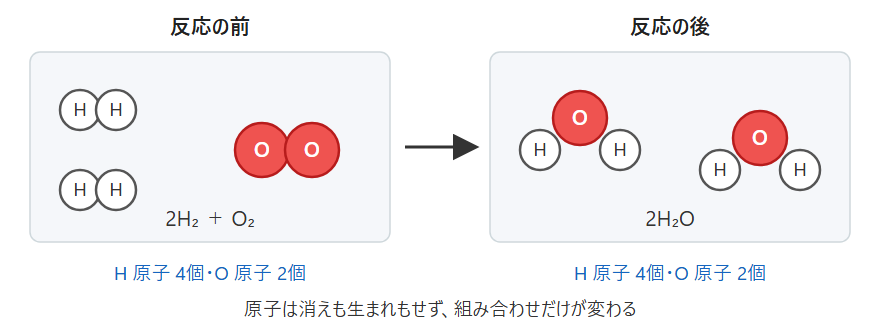
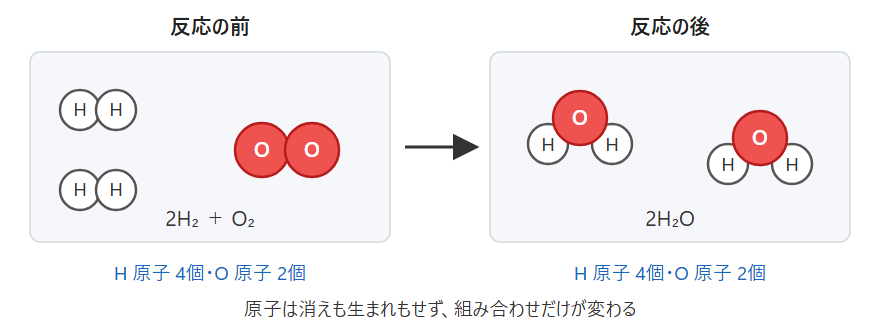
feat(参考書): 入り口の校正を反映した ― ユーザーの直し3か所と指示5つ（v1639）
ユーザーが .md を直した（2026-09-24・校正用フォルダ proof）。本文の直し（暗記より体系的な理解・C/H/O の元素記号・錬金術の一文）はそのまま。
指示（// のメモ）を反映:
- C₂H₆O の2つの図を結合を省略しない形に（H も1つずつ線で・paper expand=H）
- 原子の組みかえの図で、水分子の O と H の輪郭を重ねた（H を O に寄せ、O を上に描く）
- 状態変化・化学変化の表のあとに、物質の三態と熱運動・化学の基本法則へのリンク
- ボーアの原子モデルの図を新設（ナトリウム原子 K2・L8・M1。いちばん外側の電子を色分け）
- 「この参考書の読み方」をアルカンの例をやめて5つの特長の箇条書きに（体系的・具体例・一問一答・アプリ・独自解法と計算の工夫）。
  最後のリンクを「次のページへ：物質の分類と分離」に
相談の3つ（周期表をここに置くか・「参考書」という言い方・ページの題）は // のメモのまま残した（ユーザー判断待ち）

検証: 焼いた PNG を目で確認（新しい図の字 16px・床 14px 以上）。check-copy で文献との一致 0。
gen-reference 合格。run-tests 4分割で 947/947 合格

Changed region(s): [[0.7977, 0.4242, 0.9511, 0.5758], [0.583, 0.3636, 0.7364, 0.5152]]

diff --git a/reference/what-is-chemistry/index.html b/reference/what-is-chemistry/index.html
@@ -919,28 +919,31 @@ a.ref-link::before { content: '→ '; }
 <p class="ref-p">近代の<b>化学</b>は、「<b>物質をつくる最小の単位は原子である</b>」というところから出発した学問体系です。<b>物理</b>は、「<b>物体の運動は数式で表せる</b>」というところから出発した学問体系です。どちらも出発点を土台にして、1段ずつ積み上げていきます。狭く深く学ぶイメージです。</p>
 <p class="ref-p">一方、<b>生物</b>や<b>地学</b>は、生き物や地球という<b>対象</b>を決めた学問です。対象に迫るためなら、物理学や化学など、ほかの分野の方法もどんどん使います。広く学ぶイメージです。</p>
 <figure class="ref-figure"><img class="ref-figure-img" src="/reference-img/what-is-chemistry-disciplines.png" alt="左右2つの図。左は「学問体系（化学・物理）」で、いちばん下の土台「原子」の上に「原子の結びつき」「物質の性質」「化学反応」の箱が順に積み上がっている。右は「学問対象（生物・地学）」で、中央の「生き物・地球」に、まわりの「物理学」「化学」「数学」「情報」から矢印が向かっている" loading="lazy"><figcaption class="ref-figure-cap">化学や物理は、土台から順に積み上げる学問です。生物や地学は、対象にいろいろな分野の方法で迫る学問です。</figcaption></figure>
-<p class="ref-p">化学は積み上げの学問なので、土台の「原子」の理解があいまいなまま先へ進むと、上の段がぐらつきます。この参考書が原子のしくみから順にページを並べているのは、そのためです。</p>
+<p class="ref-p">化学は積み上げの学問なので、土台の「原子」の理解があいまいなまま先へ進むと、上の段がぐらつきます。化学の暗記に苦しむ人も多いですが、その原因の一つは基本的な理解が不十分な状態で膨大な知識をただ暗記しようとしているからです。正しい基礎知識で点と点をつなげて体系的に理解すると、覚える量を驚くほど減らすことができます。</p>
 <div class="ref-callout ref-callout-note"><b class="ref-callout-tag">補足</b><p class="ref-callout-text"><b>寄り道 ―― 分野を越えて活躍した研究者</b>　学問対象の分野では、ほかの分野の専門家が研究の対象を移して、大きな成果を上げてきました。DNA の二重らせん構造を明らかにしたクリックは、もともと物理学を学んだ研究者です。大陸が動くという大陸移動説を唱えたウェゲナーは、気象学者でした。対象が決まっている学問では、どの分野の方法でも役に立つのです。</p></div>
 <section class="ref-sec" id="ref-sec-substance"><h4 class="ref-sec-h">物質を原子で見る</h4><p class="ref-sec-lead">化学が見るのは、ものの形ではなく、ものをつくっている材料（物質）です。物質はすべて原子が結びついてでき、性質の違いは原子の種類とつながり方の違いから生まれます。</p></section>
 <p class="ref-p">コップを考えてみましょう。ガラスのコップもプラスチックのコップも、形と使い道は同じ「コップ」です。形や使い道に注目したときのものを<b>物体</b>、それをつくっている材料そのものを<b>物質</b>といいます。化学が見るのは物質のほうです。</p>
 <p class="ref-p">物質は、すべて<b>原子</b>が結びついてできています。原子の種類を<b>元素</b>といい、周期表に並ぶ約118種類しかありません。それでも物質の種類が数えきれないほどあるのは、<b>同じ原子でも、組み合わせ方とつながり方が違えば、別の物質になる</b>からです。原子がいくつか結びついたまとまりを<b>分子</b>、電子を失ったり受け取ったりして電気を帯びた原子（や原子のまとまり）を<b>イオン</b>といいます。</p>
 <p class="ref-p">たとえば、<b>黒鉛</b>（鉛筆の芯）と<b>ダイヤモンド</b>は、どちらも炭素原子だけでできています。それでも、黒鉛は黒くて軟らかく電気を通し、ダイヤモンドは無色透明でとても硬く、電気を通しません。違うのは、炭素原子どうしのつながり方だけです。</p>
-<p class="ref-p">分子でも同じことが起こります。下の2つは、どちらも炭素2個・水素6個・酸素1個からできていますが、酸素原子の位置が違います。</p>
-<figure class="ref-figure"><img class="ref-figure-img" src="/reference-img/what-is-chemistry-c2h6o.png" alt="左にエタノール、右にジメチルエーテルの構造式を並べた図。どちらも炭素2個・酸素1個・水素6個からなるが、エタノールは O が端にあって H と結合し、ジメチルエーテルは O が2つの炭素の間にある" loading="lazy"><figcaption class="ref-figure-cap">左がエタノール（常温で液体）、右がジメチルエーテル（常温で気体）。<b>原子の種類と数は同じ</b>でも、つながり方が違えば別の物質です。</figcaption></figure>
+<p class="ref-p">分子でも同じことが起こります。下の2つは、どちらも炭素C2個・水素H6個・酸素O1個からできていますが、酸素原子の位置が違います。</p>
+<figure class="ref-figure"><img class="ref-figure-img" src="/reference-img/what-is-chemistry-c2h6o.png" alt="左にエタノール、右にジメチルエーテルの構造式を並べた図。どちらも炭素C2個・酸素O1個・水素H6個からなるが、エタノールは O が端にあって H と結合し、ジメチルエーテルは O が2つの炭素の間にある" loading="lazy"><figcaption class="ref-figure-cap">左がエタノール（常温で液体）、右がジメチルエーテル（常温で気体）。<b>原子の種類と数は同じ</b>でも、つながり方が違えば別の物質です。</figcaption></figure>
 <p class="ref-p">このように化学では、物質を「<b>何の原子が・いくつ・どうつながっているか</b>」で見分けます。色・硬さ・溶けやすさといった性質も、この原子の姿に戻して説明していきます。</p>
 <section class="ref-sec" id="ref-sec-change"><h4 class="ref-sec-h">変化は原子の組みかえ</h4><p class="ref-sec-lead">化学反応では、原子そのものは消えも生まれもせず、物質の間で原子が組みかわります。だから、反応の前と後で質量が変わりません。</p></section>
 <p class="ref-p">氷がとけて水になり、水が蒸発して水蒸気になっても、そこにあるのはどれも水の分子 H₂O です。変わったのは、分子どうしの集まり方だけです。このような変化を<b>状態変化</b>といいます。</p>
 <p class="ref-p">一方、水素と酸素を反応させると水ができます。反応の前には H₂ と O₂ の分子があり、反応のあとには H₂O の分子があります。<b>原子の組み合わせが変わって、別の物質ができた</b>のです。このような変化を<b>化学変化</b>（<b>化学反応</b>）といいます。</p>
 <figure class="ref-figure"><img class="ref-figure-img" src="/reference-img/what-is-chemistry-rearrange.png" alt="左の「反応の前」の枠に、H が2個ずつつながった水素分子が2つと、O が2個つながった酸素分子が1つある。矢印の右の「反応の後」の枠には、O に H が2個ついた水分子が2つある。どちらの枠の下にも「H 原子 4個・O 原子 2個」と書いてある" loading="lazy"><figcaption class="ref-figure-cap">2H₂ ＋ O₂ → 2H₂O。反応の前も後も、H 原子は4個、O 原子は2個です。変わったのは原子の組み合わせだけです。</figcaption></figure>
 <div class="ref-table-wrap"><div class="ref-cap">状態変化と化学変化を粒子で比べる</div><table class="ref-hand-table"><thead><tr><th style="text-align: left;">変化</th><th style="text-align: left;">粒子（分子など）は</th><th style="text-align: left;">原子の組み合わせは</th><th style="text-align: left;">例</th></tr></thead><tbody><tr><td style="text-align: left;"><b>状態変化</b></td><td style="text-align: left;">そのまま（集まり方だけが変わる）</td><td style="text-align: left;">変わらない</td><td style="text-align: left;">氷がとける・水が蒸発する</td></tr><tr><td style="text-align: left;"><b>化学変化</b></td><td style="text-align: left;">別の粒子になる</td><td style="text-align: left;">変わる（別の物質ができる）</td><td style="text-align: left;">水素が燃えて水になる・鉄がさびる</td></tr></tbody></table></div>
+<p class="ref-link-row"><a class="ref-link" href="/reference/states-of-matter/">状態変化をくわしく（物質の三態と熱運動）</a></p>
+<p class="ref-link-row"><a class="ref-link" href="/reference/chemical-laws/">質量保存の法則をくわしく（化学の基本法則）</a></p>
 <p class="ref-p">中学校で学んだ<b>質量保存の法則</b>（化学反応の前後で、物質全体の質量は変わらない）は、ここから理解できます。反応の前後で<b>原子の種類と数が変わらない</b>のだから、原子の質量の合計も変わりません。化学反応式で左右の原子の数をそろえるのも、このためです。</p>
-<div class="ref-callout ref-callout-note"><b class="ref-callout-tag">補足</b><p class="ref-callout-text"><b>寄り道 ―― 錬金術の夢</b>　物質の研究は、中世には<b>錬金術</b>が担っていました。錬金術師たちは、鉛のような金以外の金属から金をつくろうと、長いあいだ実験を重ねました。原子の考え方に立てば、うまくいかなかった理由が分かります。化学反応で変わるのは原子の組み合わせだけで、<b>原子の種類（元素）そのものは変わらない</b>からです。現在では、核融合や核分裂のように原子核そのものを変える反応を使えば、ほかの元素から金をつくれることが分かっています。ただしそれには、化学反応とは比べものにならないほど大きなエネルギーが必要です。それでも、錬金術のなかで工夫された蒸留などの実験の技術は、のちの化学に受けつがれました。</p></div>
+<div class="ref-callout ref-callout-note"><b class="ref-callout-tag">補足</b><p class="ref-callout-text"><b>寄り道 ―― 錬金術の夢</b>　物質の研究は、中世には<b>錬金術</b>が担っていました。錬金術師たちは、鉛のような金以外の金属から金をつくろうと、長いあいだ実験を重ねました。これらの試みがうまくいかなかった理由は、高校化学で学習する原子の性質を理解していれば説明できます。化学反応で変わるのは原子の組み合わせだけで、<b>原子の種類（元素）そのものは変わらない</b>からです。現在では、核融合や核分裂のように原子核そのものを変える反応を使えば、ほかの元素から金をつくれることが分かっています。ただしそれには、化学反応とは比べものにならないほど大きなエネルギーが必要です。それでも、錬金術のなかで工夫された蒸留などの実験の技術は、のちの化学に受けつがれました。</p></div>
 <p class="ref-link-row"><a class="ref-link" href="/reference/chemical-equation/">化学反応式の書き方へ</a></p>
 <section class="ref-sec" id="ref-sec-history"><h4 class="ref-sec-h">原子の考え方は意外と新しい</h4><p class="ref-sec-lead">物質に最小の単位があるという考えは紀元前からありましたが、近代的な原子の考え方は、19世紀はじめのドルトンの原子説から始まりました。</p></section>
 <p class="ref-p">物質を細かく分けていくと、それ以上分けられない粒にたどりつく ―― この考えは、紀元前5世紀ごろの古代ギリシャにすでにありました。デモクリトスらは、その粒を「アトモス」（それ以上分けられないもの）とよびました。原子（アトム）という言葉のもとです。</p>
 <p class="ref-p">ただし、これは実験で確かめられた考えではありませんでした。実験の結果をもとに、「物質は、元素ごとに決まった原子からできている」とする<b>原子説</b>を示したのは、19世紀のはじめ（1803年ごろ）のドルトンです。<b>近代的な原子の考え方には、まだ200年あまりの歴史しかありません。</b>意外と新しいと思いませんか。</p>
 <figure class="ref-figure"><img class="ref-figure-img" src="/reference-img/what-is-chemistry-timeline.png" alt="上から下へ時代が進む年表。紀元前5世紀ごろのデモクリトス「アトモス」、中世の錬金術、1774年ごろのラボアジエの質量保存の法則、1803年ごろのドルトンの原子説、1869年のメンデレーエフの周期表、1897年の電子の発見、1913年のボーアの原子モデル、1920年代の量子力学が並ぶ。ラボアジエから電子の発見までの右に「高校化学のおもな範囲（19世紀までの化学）」、ボーアの原子モデルの右に「＋ 高校で使う原子のモデル」の帯がある。間隔は年代に比例していない" loading="lazy"><figcaption class="ref-figure-cap">原子の考え方の歩み（間隔は年代に比例していません）。高校の化学は、おもに19世紀までに形づくられた化学に、ボーアの原子モデルを加えて組み立てられています。</figcaption></figure>
 <p class="ref-p">高校の化学で学ぶのは、おもに19世紀の終わりまでに形づくられた化学です。原子のつくりについては、20世紀のはじめに示された<b>ボーアの原子モデル</b>（原子核のまわりを、電子が決まった道すじで回っているという描き方）を使って考えます。</p>
+<figure class="ref-figure"><img class="ref-figure-img" src="/reference-img/what-is-chemistry-bohr.png" alt="ボーアの原子モデルでナトリウム原子を描いた図。中心に原子核（＋11）があり、そのまわりに同心円の電子殻が3つある。内側から K 殻に電子2個、L 殻に電子8個、M 殻に電子1個が置かれている" loading="lazy"><figcaption class="ref-figure-cap">ボーアの原子モデル（ナトリウム原子）。原子核のまわりの決まった道すじ（電子殻）に電子が入っていると考えます。いちばん外側の電子が、化学反応で主役になります。</figcaption></figure>
 <details class="ref-adv ref-sec ref-sec-advanced" id="ref-sec-beyond-atom"><summary class="ref-adv-sum"><h4 class="ref-sec-h">原子より小さな世界<b class="ref-adv-tag" title="高校の教科書の本文の外側にある内容です。覚える範囲は本文が言います。">発展</b></h4><p class="ref-sec-lead">原子はさらに小さな粒子からできていて、その世界は量子論という考え方で説明されます。高校の化学では、ここには大きく立ち入りません。</p></summary><div class="ref-adv-body"><p class="ref-p">現在では、原子もさらに小さな粒子に分けられることが分かっています。原子は原子核と電子からでき、原子核の陽子や中性子は、さらに小さなクォークという粒子からできています。このように、それ以上分けられないと考えられている粒子を<b>素粒子</b>といいます。素粒子を扱うのは、おもに物理学や、物理学と化学の中間にあたる<b>物理化学</b>の分野です。</p><p class="ref-p">また、20世紀に入ると、電子のような小さな粒子のふるまいは、ふだん目にする物体とはまったく違う<b>量子論</b>という考え方で説明されるようになりました。実際の電子は、ボーアのモデルのように決まった円の上を回っているわけではありません。「シュレーディンガーの猫」や「不確定性原理」という言葉を聞いたことがあるかもしれませんが、これらも量子論の話です。高校で学ぶには難しすぎるので、高校の化学では、ボーアのモデルで説明できる範囲にとどめます。</p></div></details>
 <section class="ref-sec" id="ref-sec-electron"><h4 class="ref-sec-h">化学反応は電子の奪い合い</h4><p class="ref-sec-lead">原子核の陽子（＋）は電子（−）を引きつけます。この力をクーロン力といい、化学反応はこの力で説明できます。</p></section>
 <p class="ref-p">原子の中心には、正の電気をもつ陽子を含む<b>原子核</b>があり、そのまわりに負の電気をもつ<b>電子</b>があります。正の電気と負の電気は引き合います。この静電気の力を<b>クーロン力</b>といいます。</p>
@@ -949,11 +952,10 @@ a.ref-link::before { content: '→ '; }
 <p class="ref-p">たとえばナトリウム Na と塩素 Cl では、電子を引きつける力が強い Cl が Na から電子を1個奪い、Na⁺ と Cl⁻ ができます。高校の化学では、<b>化学反応はすべてこのクーロン力で説明します</b>。</p>
 <p class="ref-p">だから化学では、まず<b>原子の種類と性質</b>（とくに、電子をどれくらい強く引きつけるか）を学び、それをもとに<b>物質の性質</b>と<b>化学反応</b>を理解していきます。</p>
 <p class="ref-link-row"><a class="ref-link" href="/reference/atom-structure/">原子のつくりへ</a></p>
-<section class="ref-sec" id="ref-sec-this-book"><h4 class="ref-sec-h">この参考書の読み方</h4><p class="ref-sec-lead">この参考書は、原子を土台にして順に積み上げ、同じ仲間を並べて、そこに共通する規則を読むように作っています。</p></section>
-<p class="ref-p">たとえば「アルカンの沸点は炭素が多いほど高い」という規則は、メタン1つを見ていても分かりません。メタン・エタン・プロパン…と並べたときに、初めて見えてきます。</p>
-<p class="ref-p">そこでこの参考書では、表や図で<b>同じ仲間を並べて</b>示し、そこから読み取れる規則を太字で書いています。規則が分かれば、覚えることは少なくなり、初めて見る物質でも性質を予想できるようになります。</p>
-<p class="ref-p">読み進めるときは、まず<b>太字の規則</b>をつかみ、次に表で「本当にそうなっているか」を確かめてください。各ページの下には、学んだことをその場で試せる一問一答やアプリへの入口があります。</p>
-<p class="ref-link-row"><a class="ref-link" href="/reference/substance-classification/">物質を分けるところから始める（純物質と混合物）</a></p>
+<section class="ref-sec" id="ref-sec-this-book"><h4 class="ref-sec-h">この参考書の読み方</h4><p class="ref-sec-lead">この参考書は、原子を土台にして順に積み上げ、化学を基礎から体系的に学べるように作っています。</p></section>
+<p class="ref-p">特長は、次の5つです。</p>
+<ul class="ref-list"><li><b>基礎から体系的に学べる</b> ―― 原子のしくみを土台に、1ページずつ積み上げます。先のページの内容も、それまでに学んだ基礎知識と理解で説明するので、ばらばらの暗記ではなく、つながった知識として身につきます。</li><li><b>具体例が豊富</b> ―― 規則や考え方には、具体的な物質や反応の例を添えています。表や図で同じ仲間を並べて示すので、規則が本当に成り立っているかを自分の目で確かめられます。</li><li><b>一問一答で基礎知識を確かめられる</b> ―― 各ページの下から、そのページの内容を確かめる一問一答に進めます。読んだらすぐに試して、覚えたかどうかを確かめましょう。</li><li><b>アプリで手を動かしながら体感できる</b> ―― 分子を組み立てたり、反応を起こしたりできるアプリへの入口があります。自分で手を動かすと、図を眺めるだけでは分かりにくいことも体感できます。</li><li><b>独自の解法と計算の工夫</b> ―― 計算問題には、手間を減らす計算の工夫や、この参考書ならではの解き方を多く紹介しています。</li></ul>
+<p class="ref-link-row"><a class="ref-link" href="/reference/substance-classification/">次のページへ：物質の分類と分離（純物質と混合物）</a></p>
 </div>
 </div>
 

diff --git a/assembler/index.html b/assembler/index.html
@@ -46,7 +46,7 @@
     <meta property="og:image:alt" content="化学レンズ（SchoolLenz）— 大学受験の化学を、見えるように。無料・広告なし・ログイン不要">
     <meta name="twitter:card" content="summary_large_image">
     <link href="https://fonts.googleapis.com/css2?family=Orbitron:wght@400;700&family=Noto+Sans+JP:wght@300;400;700&display=swap" rel="stylesheet">
-    <link rel="stylesheet" href="style.css?v=1638">
+    <link rel="stylesheet" href="style.css?v=1639">
     <script>
         // 予期しないJSエラーはUIをブロックするalertではなく、画面内トーストとconsoleに出す（開発方針 3.4章）
         window.onerror = function(message, source, lineno, colno, error) {
@@ -70,7 +70,7 @@
                  ヘッダーに残っていたころは PC で 29px と 32px の床を割っており、
                  モバイル横では「右上に浮く❓」のためにリボンの上端を 32px 下げていた。
                  id は据え置き ＝ tutorial.js が id で結んでいるので配線は無傷 -->
-            <div class="version">v1638</div>
+            <div class="version">v1639</div>
         </header>
 
         <!-- 右パネルのシート（`#sheet-backdrop`）は**消した**（第5段）。
@@ -2261,19 +2261,19 @@
     </div>
 
     <!-- スクリプトの読み込み -->
-    <script src="chemistry.js?v=1638"></script>
+    <script src="chemistry.js?v=1639"></script>
     <!-- 行き止まりの報告（v1420）。**反応の外**に置く汎用の仕組み ——
          「押したのに何も起きない」は反応まわり以外でも起きるので、
          何を書き写すか・どこへ送るか・貼り先の案内の1行を、ここ1か所にまとめてある -->
-    <script src="deadend.js?v=1638"></script>
-    <script src="game.js?v=1638"></script>
-    <script src="reaction.js?v=1638"></script>
-    <script src="quiz.js?v=1638"></script>
-    <script src="stereo.js?v=1638"></script>
-    <script src="reactor.js?v=1638"></script>
-    <script src="narrowing.js?v=1638"></script>
-    <script src="learn.js?v=1638"></script>
-    <script src="tutorial.js?v=1638"></script>
-    <script src="rec.js?v=1638"></script>
+    <script src="deadend.js?v=1639"></script>
+    <script src="game.js?v=1639"></script>
+    <script src="reaction.js?v=1639"></script>
+    <script src="quiz.js?v=1639"></script>
+    <script src="stereo.js?v=1639"></script>
+    <script src="reactor.js?v=1639"></script>
+    <script src="narrowing.js?v=1639"></script>
+    <script src="learn.js?v=1639"></script>
+    <script src="tutorial.js?v=1639"></script>
+    <script src="rec.js?v=1639"></script>
 </body>
 </html>

diff --git a/assembler/test.html b/assembler/test.html
@@ -42,7 +42,7 @@
         <strong>絞ったときの緑は「全テスト合格」ではありません</strong>（画面が橙のままなのがその印）。コミット前の確認は必ずパラメータ無しで。</p>
     <div id="summary" class="running">読み込み中...</div>
     <div id="frame-box">
-        <iframe id="app-frame" src="index.html?v=1638"></iframe>
+        <iframe id="app-frame" src="index.html?v=1639"></iframe>
         <p class="frame-note">※テスト実行中はiframe内のアプリ状態が変化します。実行後は最終テストの状態のまま残ります。</p>
     </div>
     <ul id="results"></ul>
@@ -52,7 +52,7 @@
            「緑なのに壊れている」が作れる。
          ⚠ tools/ は _config.yml で Jekyll から外してあるので、これは**開発時だけ**読める。
            REF17 は reference-src/*.md も読むので、どのみち作業ツリーでしか走らない検査。 -->
-    <script src="../tools/reference-md.js?v=1638"></script>
-    <script src="tests.js?v=1638"></script>
+    <script src="../tools/reference-md.js?v=1639"></script>
+    <script src="tests.js?v=1639"></script>
 </body>
 </html>

diff --git a/assembler/audit.html b/assembler/audit.html
@@ -162,7 +162,7 @@
     <div id="summary"></div>
     <div id="reach"></div>
     <ul id="results"></ul>
-    <div id="frame-wrap"><iframe id="audit-frame" src="index.html?v=1638"></iframe></div>
-    <script src="audit.js?v=1638"></script>
+    <div id="frame-wrap"><iframe id="audit-frame" src="index.html?v=1639"></iframe></div>
+    <script src="audit.js?v=1639"></script>
 </body>
 </html>
